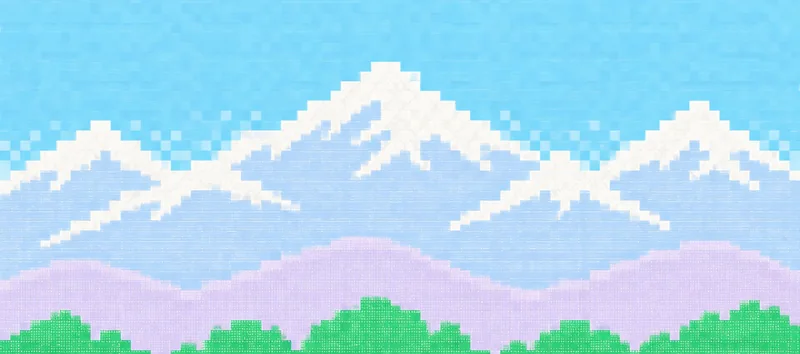
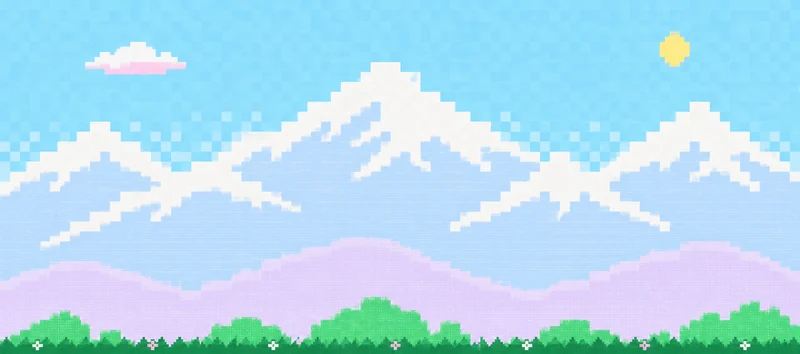
sites/dusk: plans art: sky for free, meadow for plus, the peaks a little richer for pro
Claude-Session: https://claude.ai/code/session_01U69uFLMgJgS6MvZ1Fa28ZA

diff --git a/public/landing/index.html b/public/landing/index.html
@@ -288,7 +288,7 @@
     </article>
 
     <article class="plan">
-      <img class="plan-art" src="/art/p-peaks.webp?v=a5107b3e" alt="" width="800" height="354" loading="lazy">
+      <img class="plan-art" src="/art/p-meadow.webp?v=4e4830d2" alt="" width="800" height="354" loading="lazy">
       <h3>plus</h3>
       <p class="why">your bots keep working with the laptop shut.</p>
       <p class="plan-price"><span class="amt">$<span data-m="20" data-y="200">20</span></span><span class="per" data-m="a month" data-y="a year. two months free.">a month</span></p>
@@ -303,7 +303,7 @@
     </article>
 
     <article class="plan">
-      <img class="plan-art" src="/art/p-green.webp?v=3c5f52c0" alt="" width="800" height="354" loading="lazy">
+      <img class="plan-art" src="/art/p-peaks.webp?v=bc51fca3" alt="" width="800" height="354" loading="lazy">
       <h3>pro</h3>
       <p class="why">for work, and for more bots at once.</p>
       <p class="plan-price"><span class="amt">$<span data-m="50" data-y="500">50</span></span><span class="per" data-m="a month" data-y="a year. two months free.">a month</span></p>

diff --git a/pages/home.html b/pages/home.html
@@ -206,7 +206,7 @@
     </article>
 
     <article class="plan">
-      <img class="plan-art" src="/art/p-peaks.webp" alt="" width="800" height="354" loading="lazy">
+      <img class="plan-art" src="/art/p-meadow.webp" alt="" width="800" height="354" loading="lazy">
       <h3>plus</h3>
       <p class="why">your bots keep working with the laptop shut.</p>
       <p class="plan-price"><span class="amt">$<span data-m="20" data-y="200">20</span></span><span class="per" data-m="a month" data-y="a year. two months free.">a month</span></p>
@@ -221,7 +221,7 @@
     </article>
 
     <article class="plan">
-      <img class="plan-art" src="/art/p-green.webp" alt="" width="800" height="354" loading="lazy">
+      <img class="plan-art" src="/art/p-peaks.webp" alt="" width="800" height="354" loading="lazy">
       <h3>pro</h3>
       <p class="why">for work, and for more bots at once.</p>
       <p class="plan-price"><span class="amt">$<span data-m="50" data-y="500">50</span></span><span class="per" data-m="a month" data-y="a year. two months free.">a month</span></p>
